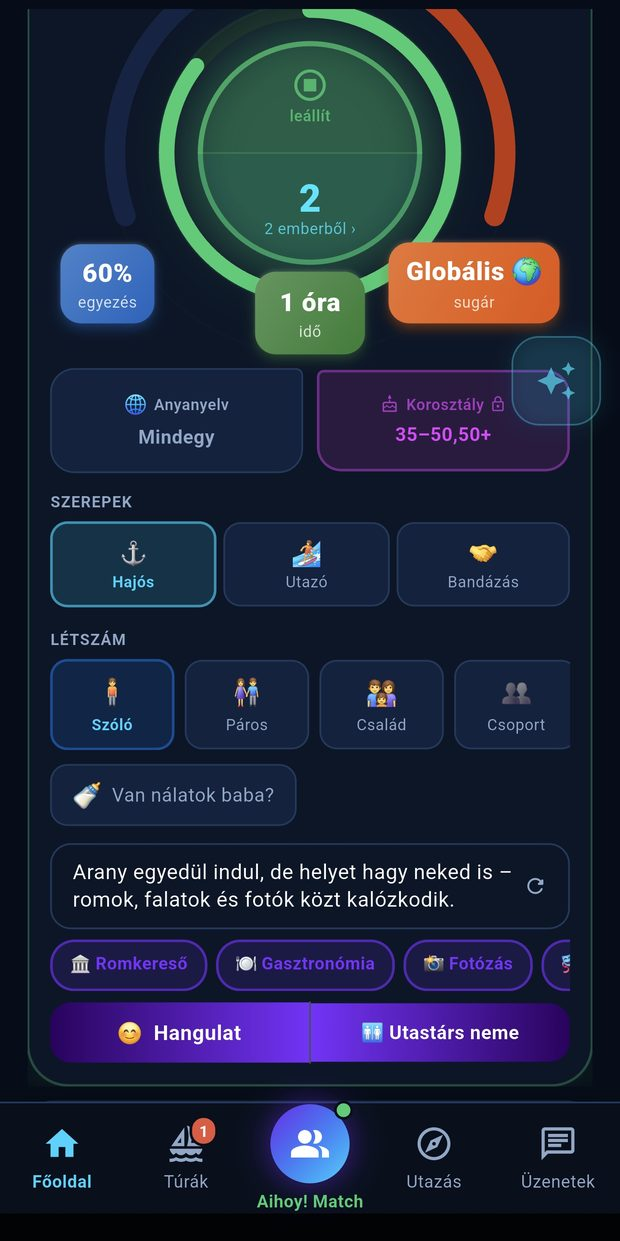
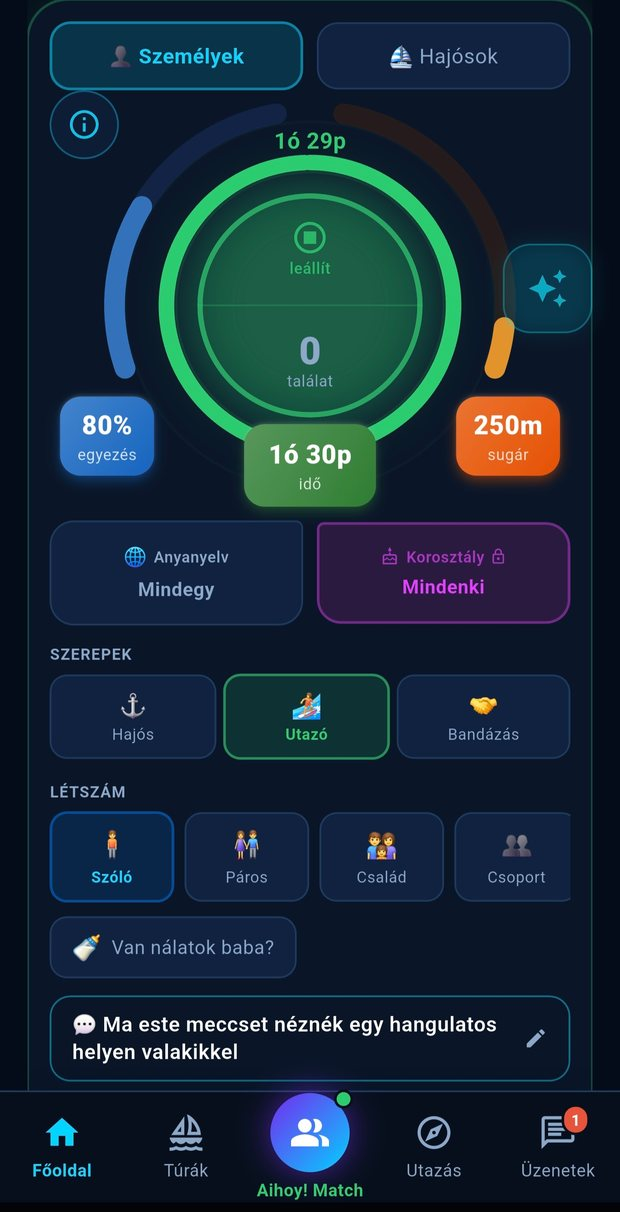
Add files via upload

diff --git a/index.html b/index.html
@@ -550,7 +550,7 @@ const T = {
     'ios-btn2': 'Szólj, ha kész',
 
     'shots-title': 'Így néz ki belülről',
-    'shot1-cap': 'Radar — szűrj anyanyelv, korosztály, szerep és létszám szerint. Vagy nézd meg, ki van most 100 méteren belül.',
+    'shot1-cap': 'Radar — szűrj anyanyelv, korosztály, szerep és létszám szerint, akár 250 méteres sugárral. (Nulla találat: most indultunk. Te lehetsz az első a környékeden.)',
     'shot2-cap': 'Túrák dátummal, szabad helyekkel és árral — egy helyen.',
     'shot3-cap': 'Chat, ami fordít. A helyi hajós a saját nyelvén ír, te a sajátodon olvasod.',
   },
@@ -614,7 +614,7 @@ const T = {
     'ios-btn2': 'Notify me',
 
     'shots-title': 'What it looks like inside',
-    'shot1-cap': 'Radar — filter by language, age, role and group size. Or just see who\'s within 100 metres right now.',
+    'shot1-cap': 'Radar — filter by language, age, role and group size, down to a 250-metre radius. (Zero hits: we\'ve just launched. You could be the first in your area.)',
     'shot2-cap': 'Trips with dates, free seats and prices — all in one place.',
     'shot3-cap': 'Chat that translates. The local skipper writes in their language, you read it in yours.',
   }
